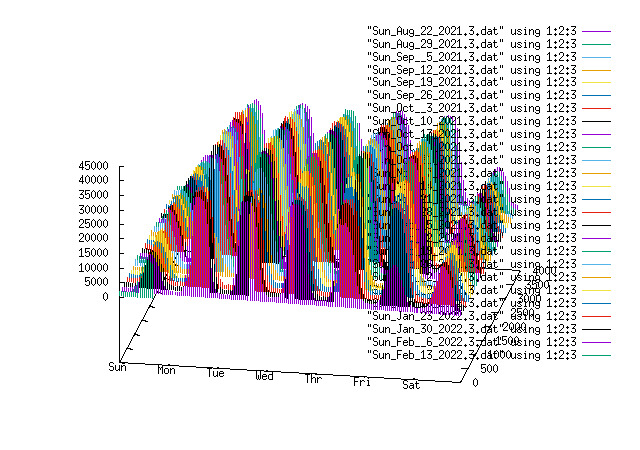
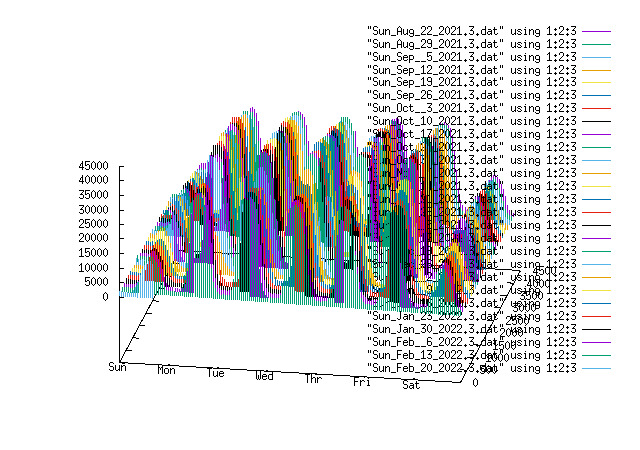
up

diff --git a/index.html b/index.html
@@ -131,7 +131,7 @@ border-left:none;
   <li><a href="https://raw.githubusercontent.com/KeiHasegawa/covid19/master/JapanRussia.jpg">日本, ロシア 10 万人当りの新規陽性者数と死者数</a></li>
   <li><a href="https://raw.githubusercontent.com/KeiHasegawa/covid19/master/JapanUK.jpg">日本, イギリス 10 万人当りの新規陽性者数と死者数</a></li>
   <li><a href="https://raw.githubusercontent.com/KeiHasegawa/covid19/master/Sat_Aug_28_13:00:00_2021.jpg">東京, 千葉, 埼玉, 神奈川の 2021/08/28 (土) 13:00 の人出</a></li>
-  <li><a href="https://raw.githubusercontent.com/KeiHasegawa/covid19/master/Nihonbashi.jpg">日本橋の人出(2021/08/22 - 2022/02/13)</a></li>
+  <li><a href="https://raw.githubusercontent.com/KeiHasegawa/covid19/master/Nihonbashi.jpg">日本橋の人出(2021/08/22 - 2022/02/20)</a></li>
   <li><a href="https://raw.githubusercontent.com/KeiHasegawa/covid19/master/read_tokyo.cpp">read_tokyo.cpp</a></li>
   <li><a href="https://raw.githubusercontent.com/KeiHasegawa/covid19/master/read_nhk.cpp">read_nhk.cpp</a></li>
   <li><a href="https://raw.githubusercontent.com/KeiHasegawa/covid19/master/read_tsc19.cpp">read_tsc19.cpp</a></li>

diff --git a/disp_main.cpp b/disp_main.cpp
@@ -2191,6 +2191,13 @@ int read_dll()
     "../2022.02.11.18/2022_02_11_18",
     "../2022.02.12.18/2022_02_12_18",
     "../2022.02.13.18/2022_02_13_18",
+    "../2022.02.14.18/2022_02_14_18",
+    "../2022.02.15.18/2022_02_15_18",
+    "../2022.02.16.18/2022_02_16_18",
+    "../2022.02.17.18/2022_02_17_18",
+    "../2022.02.18.18/2022_02_18_18",
+    "../2022.02.19.18/2022_02_19_18",
+    "../2022.02.20.18/2022_02_20_18",
   };
   auto p = find_if(begin(dll), end(dll), read_dll1);
   return p - end(dll);
